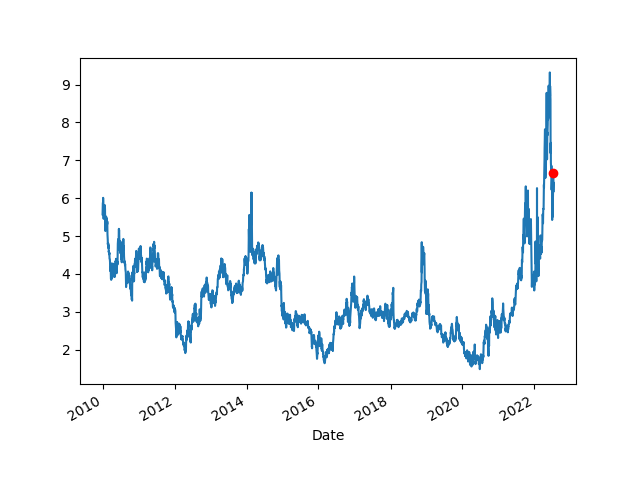
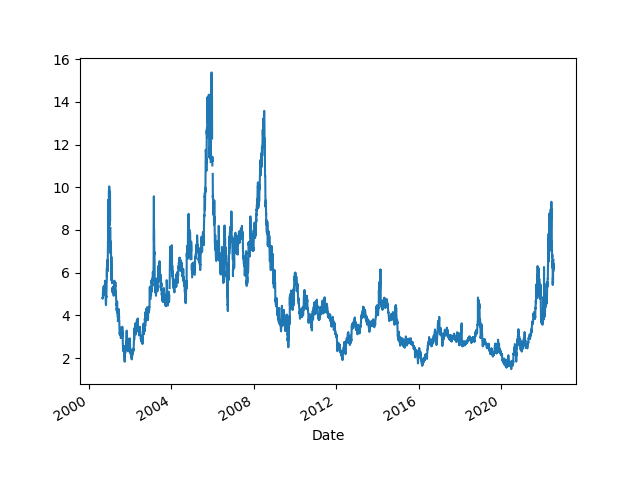
--

diff --git a/en/2019/05/util.py b/en/2019/05/util.py
@@ -1,5 +1,22 @@
+import datetime, time as timelib
+import urllib.request as urllib2
 import pandas as pd, requests, datetime
+from io import BytesIO
 from datetime import date
+
+def get_yahoofin(year,ticker):
+    end = datetime.datetime.now()
+    start = datetime.datetime(1980, 1, 1)
+    start = int(timelib.mktime(start.timetuple()))
+    end = int(timelib.mktime(end.timetuple()))
+    base_fin_url = "https://query1.finance.yahoo.com/v7/finance/download"
+    url = base_fin_url + "/%s?period1=" + str(start) + "&period2=" + \
+          str(end) + "&interval=1d&events=history&includeAdjustedClose=true"
+    url  = url % ticker
+    r = urllib2.urlopen(url).read()
+    file = BytesIO(r)
+    df = pd.read_csv(file,index_col='Date',parse_dates=True)['Close']
+    return df
 
 def get_eia(series):
     api_key = open('.key/.eiakey').read()

diff --git a/en/2019/05/energstats.md b/en/2019/05/energstats.md
@@ -3,22 +3,8 @@
 ### Oil Price (Futures, Continuous Contract, Front Month)
 
 ```python
-import pandas as pd, datetime, time as timelib
-import urllib.request as urllib2, io
-
-end = datetime.datetime.now()
-start = datetime.datetime(1980, 1, 1)
-start = int(timelib.mktime(start.timetuple()))
-end = int(timelib.mktime(end.timetuple()))
-base_fin_url = "https://query1.finance.yahoo.com/v7/finance/download"
-url = base_fin_url + "/CL=F?period1=" + str(start) + "&period2=" + \
-      str(end) + "&interval=1d&events=history&includeAdjustedClose=true"
-r = urllib2.urlopen(url).read()
-file = io.BytesIO(r)
-df = pd.read_csv(file,index_col='Date',parse_dates=True)['Close']
-
+import util; df = util.get_yahoofin(2010,"CL=F")
 print (df.tail(5))
-plt.plot(df.tail(1).index, df.tail(1),'ro')
 df.plot()
 plt.axvspan('01-03-2001', '27-10-2001', color='y', alpha=0.5, lw=0)
 plt.axvspan('22-12-2007', '09-05-2009', color='y', alpha=0.5, lw=0)
@@ -27,11 +13,11 @@ plt.savefig('oil.png')
 
 ```text
 Date
-2022-06-13    120.930000
-2022-06-14    118.930000
-2022-06-15    115.309998
-2022-06-16    117.589996
-2022-06-17    109.300003
+2022-07-07    102.730003
+2022-07-08    104.790001
+2022-07-11    104.089996
+2022-07-12     95.839996
+2022-07-13     95.919998
 Name: Close, dtype: float64
 ```
 
@@ -64,20 +50,9 @@ Name: 1, dtype: float64
 ### World Natural Gas Price
 
 ```python
-import pandas as pd, datetime, time as timelib
-import urllib.request as urllib2, io
-end = datetime.datetime.now()
-start=datetime.datetime(2010, 1, 1)
-start = int(timelib.mktime(start.timetuple()))
-end = int(timelib.mktime(end.timetuple()))
-base_fin_url = "https://query1.finance.yahoo.com/v7/finance/download"
-url = base_fin_url + "/NG=F?period1=" + str(start) + "&period2=" + str(end) + "&interval=1d&events=history&includeAdjustedClose=true"
-r = urllib2.urlopen(url).read()
-file = io.BytesIO(r)
-df = pd.read_csv(file,index_col='Date',parse_dates=True)['Adj Close']
-df.plot()
-plt.plot(df.tail(1).index, df.tail(1),'ro')
+import util; df = util.get_yahoofin(2010,"NG=F")
 print (df.tail(7))
+df.plot()
 plt.savefig('natgas.png')
 ```
 
@@ -89,55 +64,13 @@ Date
 2022-07-08    6.034
 2022-07-11    6.426
 2022-07-12    6.163
-2022-07-13    6.662
-Name: Adj Close, dtype: float64
+2022-07-13    6.604
+Name: Close, dtype: float64
 ```
 
 ![](natgas.png)
 
 <a name='engconsumption'/>
-
-### World Energy Consumption by Source, Monthly (twh)
-
-```python
-import pandas as pd, requests
-from datetime import date
-
-api_key = open('.key/.eiakey').read()
-
-sources = ('coal','TOTAL.CLTCBUS.M'),('hydro','TOTAL.HVTCBUS.M'),\
-	   ('natgas','TOTAL.NNTCBUS.M'),('oil','TOTAL.PMTCBUS.M'),\
-	   ('nuclear','TOTAL.NUETBUS.M'),('solar','TOTAL.SOTCBUS.M'),\
-	   ('wind','TOTAL.WYTCBUS.M')
-
-dfall = []
-descs = []
-for desc,lab in sources:
-    url = 'https://api.eia.gov/series/?api_key=' + api_key + '&series_id=' + lab
-    r = requests.get(url)
-    json_data = r.json()
-    df = pd.DataFrame(json_data.get('series')[0].get('data'))
-    df = pd.DataFrame(json_data.get('series')[0].get('data'))
-    df['Year'] = df[0].astype(str).str[:4]
-    df['Month'] = df[0].astype(str).str[4:]
-    df['Day'] = 1
-    df['Date'] = pd.to_datetime(df[['Year','Month','Day']])
-    df = df.set_index('Date')
-    df = df.rename(columns={1: desc})
-    df = df[df.index > '2000-01-01-']
-    df[desc] = df[desc].rolling(10).mean() * 0.293    
-    descs.append(desc)
-    dfall.append(df)
-
-dfall = pd.concat(dfall,axis=1)
-pd.set_option('display.max_columns', None)
-
-dfall[descs].plot()
-plt.title('Monthly World Energy Consumption (twh)')
-plt.savefig('energy-sources.png')
-```
-
-![](energy-sources.png)
 
 Looking at YoY increases per source
 
